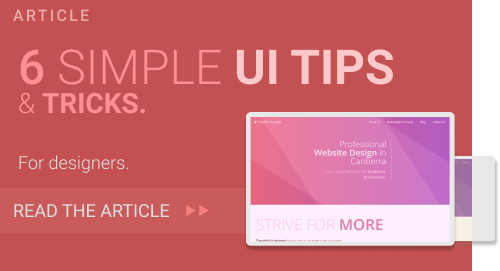
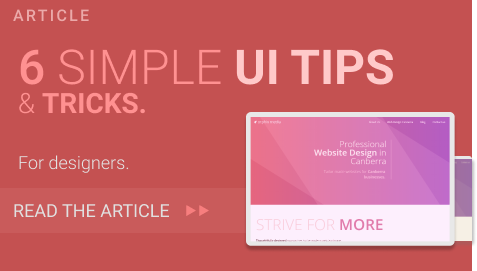
test

diff --git a/blog/tips-for-improving-your-website/index.html b/blog/tips-for-improving-your-website/index.html
@@ -78,7 +78,7 @@
                             <p class="code">Stripe.com's usage of the subtle<br>gradient.</p>   
                             <div style="margin-top:1
                             em;">
-                                <img class="demo-img" style="max-width:800px;box-shadow: 0 24px 38px 3px rgba(0,0,0,0.14), 0 9px 46px 8px rgba(0,0,0,0.12), 0 11px 15px -7px rgba(0,0,0,0.2);" src="../../images/stripe.jpg" alt="Stripe's use of the 'subtle gradient' effect.">
+                                <img class="demo-img" style="max-width:800px;box-shadow: 0 24px 38px 3px rgba(0,0,0,0.14), 0 9px 46px 8px rgba(0,0,0,0.12), 0 11px 15px -7px rgba(0,0,0,0.2);" src="../../images/simple-ui-tips.png" alt="Stripe's use of the 'subtle gradient' effect.">
                             </div>
                             <br>
                             <p>Next time you're adding a block of colour to your design, try adding the property:</p>
